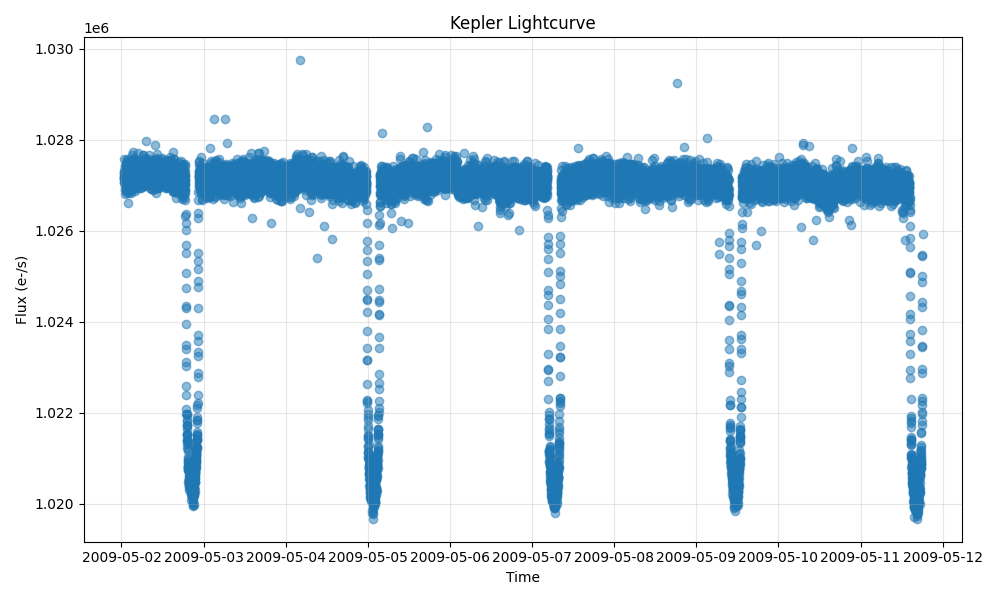
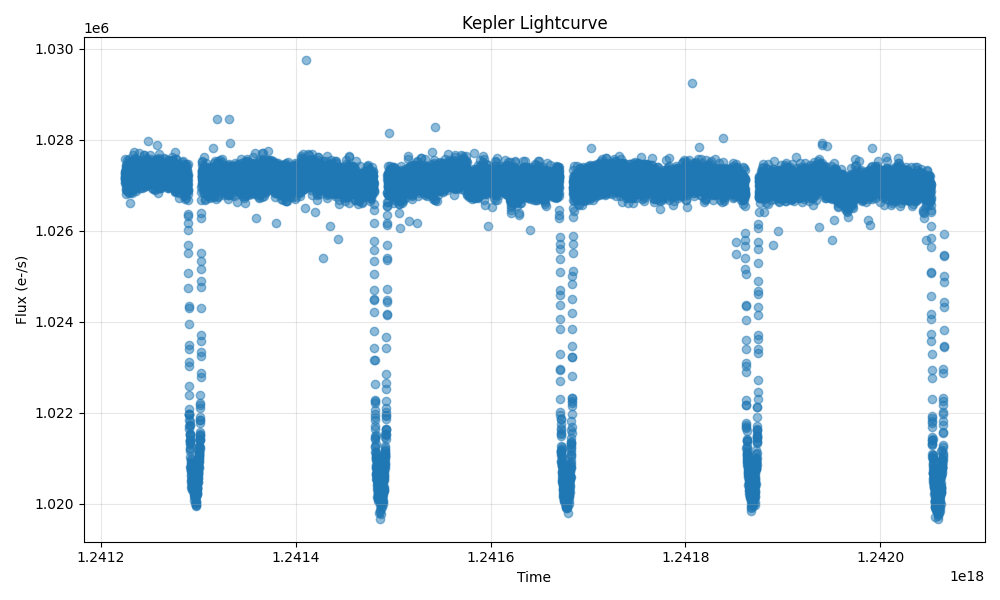
working astropy
still very slow

diff --git a/src/lib.rs b/src/lib.rs
@@ -1,7 +1,5 @@
-use numpy::ndarray::ArrayView1;
-use numpy::PyArrayMethods;
 use numpy::{IntoPyArray, PyArray1, PyReadonlyArray1};
-use pyo3::exceptions::{PyTypeError, PyValueError};
+use pyo3::exceptions::PyValueError;
 use pyo3::prelude::*;
 use rayon::prelude::*;
 use statrs::distribution::{Beta, ContinuousCDF};
@@ -13,54 +11,6 @@ pub mod timing;
 /// A Python module implemented in Rust.
 #[pymodule]
 fn phasedm(m: &Bound<'_, PyModule>) -> PyResult<()> {
-    #[pyfn(m)]
-    #[pyo3(name = "testfn")]
-    #[pyo3(signature = (time, signal))]
-    fn testfn<'py>(
-        py: Python<'py>,
-        time: &Bound<'py, PyAny>,
-        signal: &Bound<'py, PyAny>,
-    ) -> PyResult<Bound<'py, PyArray1<f64>>> {
-        let astropy_time = py.import("astropy.time")?.getattr("Time")?;
-        let astropy_quantity = py.import("astropy.units")?.getattr("Quantity")?;
-        let np = py.import("numpy")?;
-        let float64_attr = np.getattr("float64")?;
-
-        if signal.is_instance(&astropy_quantity)? == true {
-            println!("true");
-            let value = signal.getattr("value")?;
-            let float_array = np.call_method1("array", (value, float64_attr))?;
-
-            let array_bound = float_array.downcast::<PyArray1<f64>>()?.to_owned();
-            return Ok(array_bound);
-        } else {
-            println!("false");
-            return Err(PyTypeError::new_err("eek"));
-        }
-
-        // if time.is_instance(&astropy_time)? == true {
-        //     let np = py.import("numpy")?;
-
-        //     //We can convert the Time object to a datetime representation which is the most consistent
-        //     let float64_attr = np.getattr("float64")?;
-        //     let datetime64 = time.getattr("datetime64")?;
-
-        //     let float_array = np.call_method1("array", (datetime64, float64_attr))?;
-        //     let array_bound = float_array.downcast::<PyArray1<f64>>()?.readonly();
-
-        //     //This is actually super important! small overhead from converting but speeds up the phase calculation by a lot
-        //     let min_time = array_bound.get(0).unwrap();
-        //     let array_vec: Vec<f64> = {
-        //         let array_slice = array_bound.as_slice()?;
-        //         array_slice.iter().map(|&x| (x - min_time) / 1e9).collect()
-        //     };
-
-        //     return Ok(array_vec.into_pyarray(py));
-        // } else {
-        //     return Err(PyTypeError::new_err("must be astropy time"));
-        // }
-    }
-
     #[pyfn(m)]
     #[pyo3(name = "pdm")]
     #[pyo3(signature = (time, signal, min_freq, max_freq, n_freqs, sigma=None, n_bins=None, verbose=None))]

diff --git a/python/tests/astropy_test.py b/python/tests/astropy_test.py
@@ -25,7 +25,7 @@ t = testfn(ts.time, flux)
 print(t)
 # Plot the data
 plt.figure(figsize=(10, 6))
-plt.scatter(times.datetime64, flux, alpha=0.5)
+plt.scatter(np.array(times.datetime64, np.float64), flux, alpha=0.5)
 plt.xlabel("Time")
 plt.ylabel("Flux (e-/s)")
 plt.title("Kepler Lightcurve")
@@ -34,20 +34,67 @@ plt.tight_layout()
 plt.savefig("kplr")
 
 
-min_freq = 1 / 100000
-max_freq = 0.8
-n_bins = 10
-n_freqs = int(1e4)
+min_freq = 4 / int(1e6)
+max_freq = 6 / int(1e6)
+n_bins = 100
+n_freqs = int(1e5)
 
-print(type(times))
-print(type(flux))
-freq, theta = pdm(times, flux, min_freq, max_freq, n_freqs, n_bins=n_bins, verbose=1)
+# print(type(times.datetime64))
+# print(type(times.datetime64[0]))
+# print(np.isnan(times.datetime64).any())
+# print(type(flux.value.astype(np.float64)))
+# print(type(flux.value.astype(np.float64)[0]))
+# print(np.isnan(flux.value.astype(np.float64)).any())
+
+valid_mask = ~np.isnan(flux.value.astype(np.float64)).astype(bool)
+
+times = times[valid_mask]
+flux = flux[valid_mask]
+
+print(np.isnan(flux.value.astype(np.float64)).any())
+
+print(len(times))
+print(
+    "times",
+    (np.array(times.datetime64, np.float64) - np.array(times.datetime64, np.float64)[0])
+    / 1e9,
+)
+
+print(len(flux))
+print("flux", flux)
+
+signal = np.ones(len(times))
+freq, theta = pdm(
+    times,
+    flux,
+    min_freq,
+    max_freq,
+    n_freqs,
+    n_bins=n_bins,
+    verbose=1,
+)
 
 best_freq = freq[np.argmin(theta)]
 print(f"Detected period: {1/best_freq}")
+print(f"Detected period (days): {(1/best_freq)/60/60/24}")
+
 
 print(theta)
 
 plt.figure()
 plt.plot(freq, theta)
 plt.savefig("fig")
+
+plt.figure()
+plt.scatter(
+    (
+        (
+            np.array(times.datetime64, np.float64)
+            - np.array(times.datetime64, np.float64)[0]
+        )
+        / 1e9
+    )
+    % (1 / best_freq),
+    flux.value.astype(np.float64),
+)
+plt.savefig("phase")

diff --git a/src/error.rs b/src/error.rs
@@ -87,7 +87,6 @@ pub fn check_time_array<'py>(
     let astropy_time = py.import("astropy.time")?.getattr("Time")?;
 
     if time.is_instance(&astropy_time)? {
-        let np = py.import("numpy")?;
         let float64_attr = np.getattr("float64")?;
 
         //We can convert the Time object to a datetime representation which is the most consistent
